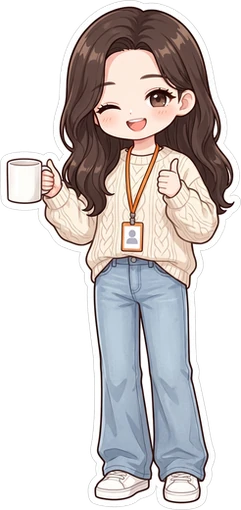
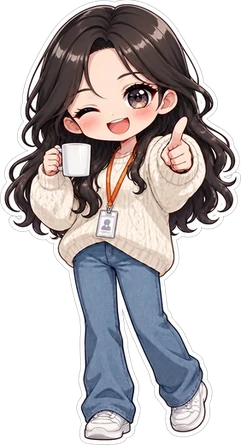
은빈을 원래 그림 그대로, 얼굴 크기만 동료들과 맞춤
Claude-Session: https://claude.ai/code/session_013o6MwTRjv9wdDZ1RWn6mmU

diff --git a/sw.js b/sw.js
@@ -1,5 +1,5 @@
 // 자동 생성 파일: tools/build.py가 만든다. 직접 고치지 말고 tools/sw.template.js를 고칠 것
-const CACHE='humzzwi-2026.10.09-553dd5';
+const CACHE='humzzwi-2026.10.09-395606';
 const ASSETS=["./", "index.html", "manifest.json", "icon-192.png", "icon-512.png", "apple-touch-icon.png", "fonts/GowunDodum-Regular.woff2", "fonts/Jua-Regular.woff2", "assets/a_bear.webp", "assets/a_daram.webp", "assets/a_daram_f.webp", "assets/a_eunbin.webp", "assets/a_fox.webp", "assets/a_hanmin.webp", "assets/a_hyunsu.webp", "assets/a_hz_walk.webp", "assets/a_hz_walk_b.webp", "assets/a_jaemin.webp", "assets/a_jiyoung.webp", "assets/a_lab.webp", "assets/a_sangho.webp", "assets/a_seohwi.webp", "assets/a_sumin.webp", "assets/badge.webp", "assets/c_ai.webp", "assets/c_ai_b.webp", "assets/c_blind.webp", "assets/c_blind_b.webp", "assets/c_blog.webp", "assets/c_blog_b.webp", "assets/c_cafe.webp", "assets/c_cafe_b.webp", "assets/c_coffee.webp", "assets/c_coffee_b.webp", "assets/c_content.webp", "assets/c_content_b.webp", "assets/c_cs.webp", "assets/c_cs_b.webp", "assets/c_date.webp", "assets/c_date_b.webp", "assets/c_daytrip.webp", "assets/c_daytrip_b.webp", "assets/c_english.webp", "assets/c_english_b.webp", "assets/c_erp.webp", "assets/c_erp_b.webp", "assets/c_ev_ceo.webp", "assets/c_ev_ceo_b.webp", "assets/c_ev_jobup.webp", "assets/c_ev_jobup_b.webp", "assets/c_ev_promo.webp", "assets/c_ev_promo_b.webp", "assets/c_excel.webp", "assets/c_excel_b.webp", "assets/c_filling.webp", "assets/c_filling_b.webp", "assets/c_formula.webp", "assets/c_formula_b.webp", "assets/c_friends.webp", "assets/c_friends_b.webp", "assets/c_global.webp", "assets/c_global_b.webp", "assets/c_gym.webp", "assets/c_gym_b.webp", "assets/c_half.webp", "assets/c_half_b.webp", "assets/c_ingredient.webp", "assets/c_ingredient_b.webp", "assets/c_jeju.webp", "assets/c_jeju_b.webp", "assets/c_keymsg.webp", "assets/c_keymsg_b.webp", "assets/c_leave.webp", "assets/c_leave_b.webp", "assets/c_lecture.webp", "assets/c_lecture_b.webp", "assets/c_license.webp", "assets/c_license_b.webp", "assets/c_logistics.webp", "assets/c_logistics_b.webp", "assets/c_mba.webp", "assets/c_mba_b.webp", "assets/c_md.webp", "assets/c_md_b.webp", "assets/c_minutes.webp", "assets/c_minutes_b.webp", "assets/c_orient.webp", "assets/c_orient_b.webp", "assets/c_overtime.webp", "assets/c_overtime_b.webp", "assets/c_package.webp", "assets/c_package_b.webp", "assets/c_pilates.webp", "assets/c_pilates_b.webp", "assets/c_pt.webp", "assets/c_pt_b.webp", "assets/c_research.webp", "assets/c_research_b.webp", "assets/c_review.webp", "assets/c_review_b.webp", "assets/c_run.webp", "assets/c_run_b.webp", "assets/c_schedule.webp", "assets/c_schedule_b.webp", "assets/c_selfdate.webp", "assets/c_selfdate_b.webp", "assets/c_settle.webp", "assets/c_settle_b.webp", "assets/c_shoot.webp", "assets/c_shoot_b.webp", "assets/c_shop_hb.webp", "assets/c_shop_hb_b.webp", "assets/c_shop_mall.webp", "assets/c_shop_mall_b.webp", "assets/c_shop_online.webp", "assets/c_shop_online_b.webp", "assets/c_snack.webp", "assets/c_snack_b.webp", "assets/c_store.webp", "assets/c_store_b.webp", "assets/c_tokyo.webp", "assets/c_tokyo_b.webp", "assets/c_trip.webp", "assets/c_trip_b.webp", "assets/c_walk.webp", "assets/c_walk_b.webp", "assets/d_coffeechat_f.webp", "assets/d_coffeechat_f_b.webp", "assets/d_coffeechat_m.webp", "assets/d_coffeechat_m_b.webp", "assets/d_coffeeget_f.webp", "assets/d_coffeeget_f_b.webp", "assets/d_coffeeget_m.webp", "assets/d_coffeeget_m_b.webp", "assets/d_coffeegive_f.webp", "assets/d_coffeegive_f_b.webp", "assets/d_coffeegive_m.webp", "assets/d_coffeegive_m_b.webp", "assets/d_coffeeshare_f.webp", "assets/d_coffeeshare_f_b.webp", "assets/d_coffeeshare_m.webp", "assets/d_coffeeshare_m_b.webp", "assets/d_confess_f.webp", "assets/d_confess_f_b.webp", "assets/d_confess_m.webp", "assets/d_confess_m_b.webp", "assets/d_picnic_f.webp", "assets/d_picnic_f_b.webp", "assets/d_picnic_m.webp", "assets/d_picnic_m_b.webp", "assets/d_ramen_f.webp", "assets/d_ramen_f_b.webp", "assets/d_ramen_m.webp", "assets/d_ramen_m_b.webp", "assets/ev_arrive.webp", "assets/ev_arrive_b.webp", "assets/ev_building.webp", "assets/ev_dinner.webp", "assets/ev_overload.webp", "assets/ev_pass.webp", "assets/ev_pass_b.webp", "assets/ev_present.webp", "assets/ev_reject.webp", "assets/ev_reject_b.webp", "assets/ev_studio.webp", "assets/ev_studio_b.webp", "assets/ev_subway.webp", "assets/ev_subway_b.webp", "assets/f_bear.webp", "assets/f_ceo.webp", "assets/f_daram.webp", "assets/f_daram_f.webp", "assets/f_eunbin.webp", "assets/f_fox.webp", "assets/f_hanmin.webp", "assets/f_hyunsu.webp", "assets/f_hz.webp", "assets/f_jaemin.webp", "assets/f_jiyoung.webp", "assets/f_lab.webp", "assets/f_sangho.webp", "assets/f_seohwi.webp", "assets/f_sumin.webp", "assets/hz.png", "assets/id_bad.webp", "assets/id_good.webp", "assets/id_ok.webp", "assets/lunch.webp", "assets/m_box.webp", "assets/m_box_b.webp", "assets/m_fit.webp", "assets/m_fit_b.webp", "assets/m_lab.webp", "assets/m_lab_b.webp", "assets/m_phone.webp", "assets/m_phone_b.webp", "assets/m_study.webp", "assets/m_study_b.webp", "assets/pl_boss.webp", "assets/pl_cafe.webp", "assets/pl_lab.webp", "assets/pl_mkt.webp", "assets/pl_ops.webp", "assets/pl_roof.webp", "assets/pl_sales.webp", "assets/pl_strat.webp", "assets/pl_studio.webp", "assets/pl_wh.webp", "assets/s_ceo.webp", "assets/s_coffee.webp", "assets/s_coffee_b.webp", "assets/s_dark.webp", "assets/s_dark_b.webp", "assets/s_desk.webp", "assets/s_desk_b.webp", "assets/s_eat.webp", "assets/s_eat_b.webp", "assets/s_jump.webp", "assets/s_jump_b.webp", "assets/s_sleep.webp", "assets/s_sleep_b.webp", "assets/s_walk.webp", "assets/s_walk_b.webp", "assets/sc_cafe.webp", "assets/sc_factory.webp", "assets/sc_gym.webp", "assets/sc_home.webp", "assets/sc_lab.webp", "assets/sc_meeting.webp", "assets/sc_office.webp", "assets/sc_package.webp", "assets/sc_park.webp", "assets/sc_popup.webp", "assets/sc_rain.webp", "assets/sc_store.webp", "assets/sc_studio.webp", "assets/sc_study.webp", "assets/v_short.webp", "assets/v_short_b.webp"];
 self.addEventListener('install',e=>{self.skipWaiting();e.waitUntil((async()=>{
   const c=await caches.open(CACHE),total=ASSETS.length,all=async()=>self.clients.matchAll({includeUncontrolled:true});

diff --git a/index.html b/index.html
@@ -7,7 +7,7 @@
 <meta name="apple-mobile-web-app-capable" content="yes"><meta name="mobile-web-app-capable" content="yes">
 <meta name="apple-mobile-web-app-status-bar-style" content="black-translucent"><meta name="apple-mobile-web-app-title" content="험쮜메이커">
 <meta name="theme-color" content="#2a1f33">
-<link rel="manifest" href="manifest.json?v=553dd5"><link rel="apple-touch-icon" sizes="180x180" href="apple-touch-icon.png?v=553dd5"><link rel="icon" type="image/png" sizes="192x192" href="icon-192.png?v=553dd5">
+<link rel="manifest" href="manifest.json?v=395606"><link rel="apple-touch-icon" sizes="180x180" href="apple-touch-icon.png?v=395606"><link rel="icon" type="image/png" sizes="192x192" href="icon-192.png?v=395606">
 <style>
 /* 글꼴은 파일로 같이 들고 다닌다 (비행기 모드에서도 같은 모양) */
 @font-face{font-family:"Jua";src:url(fonts/Jua-Regular.woff2) format("woff2");font-display:swap}
@@ -2382,7 +2382,7 @@ function showGroup(ks){let g=$('#group');if(!g){g=document.createElement('div');
   // 모두 같은 배율의 그림이라 BODY_T(실제 키) 비율 그대로 세운다
   g.innerHTML=ks.map((k,i)=>`<figure style="animation-delay:${i*.08}s" data-t="${bodyT(k)}"><figcaption>${JOB_TAG[k]?JOB_TAG[k]+' · '+given(k):who(k).name}</figcaption><img src="${IMG(sprOf(k))}" alt="${esc(who(k).name)}"></figure>`).join('');g.hidden=false;placeGroup()}
 // 모든 동료 그림은 한 장의 라인업에서 같은 배율로 오려낸 것. BODY_T = 그림의 실제 픽셀 키 (얼굴 크기는 모두 같다)
-const BODY_T={"sangho":597,"hyunsu":533,"hanmin":581,"seohwi":536,"jiyoung":493,"daram":585,"eunbin":510,"sumin":538,"jaemin":593,"daram_f":486},T_MAX=597;
+const BODY_T={"sangho":597,"hyunsu":533,"hanmin":581,"seohwi":536,"jiyoung":493,"daram":585,"eunbin":445,"sumin":538,"jaemin":593,"daram_f":486},T_MAX=597;
 const sprOf=k=>imgOf(k);
 const bodyT=k=>BODY_T[imgOf(k).slice(2)]||T_MAX;
 function placeGroup(){const g=$('#group');if(!g||g.hidden)return;const d=$('#dialog'),ph=$('#phone').clientHeight,top=d.hidden?ph-200:d.offsetTop;
@@ -2910,7 +2910,7 @@ document.addEventListener('click',e=>{const b=e.target.closest('[data-mset]');if
    말주머니로 질문 → 답을 고르면 업무 성과 평가(정답일수록 매출·해외 진출·♥ 상승). 한 달에 3번. */
 const SEAT={sangho:[30,26],hyunsu:[70,26],hanmin:[18,48],seohwi:[50,48],jiyoung:[82,48],daram:[13,70],eunbin:[37,70],sumin:[63,70],jaemin:[87,70]};
 // 캐릭터마다 원본 그림 크기가 달라서, 얼굴 폭이 같아 보이도록 자르는 값 [너비%, 왼쪽%, 위%]
-const CROP={"sangho": [110.3, -3.0, 4.8], "hyunsu": [112.7, -1.2, 4.8], "hanmin": [119.4, -7.0, 4.8], "seohwi": [110.3, -1.5, 4.8], "jiyoung": [98.2, 2.2, 4.8], "daram": [107.3, -0.6, 4.8], "eunbin": [146.1, -34.5, 4.8], "sumin": [103.0, 3.4, 4.8], "jaemin": [115.8, -1.5, 4.8], "daram_f": [105.5, -1.5, 4.8]};
+const CROP={"sangho": [110.3, -3.0, 4.8], "hyunsu": [112.7, -1.2, 4.8], "hanmin": [119.4, -7.0, 4.8], "seohwi": [110.3, -1.5, 4.8], "jiyoung": [98.2, 2.2, 4.8], "daram": [107.3, -0.6, 4.8], "eunbin": [146.1, -20.9, 4.8], "sumin": [103.0, 3.4, 4.8], "jaemin": [115.8, -1.5, 4.8], "daram_f": [105.5, -1.5, 4.8]};
 const SEAT_ROW=[[11.5,'부장실'],[81,'인턴석 · 문 바로 옆']];
 const MY_SEAT=[60,96];
 // 사무실에선 이름 대신 직무로 표기
@@ -3517,7 +3517,7 @@ $('#btn-start').onclick=async()=>{
 setSound(AU.on);
 /* ================= 빌드 코드 · 오프라인(홈 화면 앱) =================
    tools/build.py가 BUILD를 매긴다. 홈 화면에 추가하면 처음 한 번 그림을 전부 받아 두고, 그 뒤로는 비행기 모드에서도 실행된다 */
-const BUILD='2026.10.09-553dd5';
+const BUILD='2026.10.09-395606';
 $('#build-title').textContent=$('#build-menu').textContent=`빌드 ${BUILD}`;
 if('serviceWorker' in navigator&&/^https?:$/.test(location.protocol)){
   const bar=document.createElement('div');bar.className='sw-bar';bar.hidden=true;document.body.appendChild(bar);
